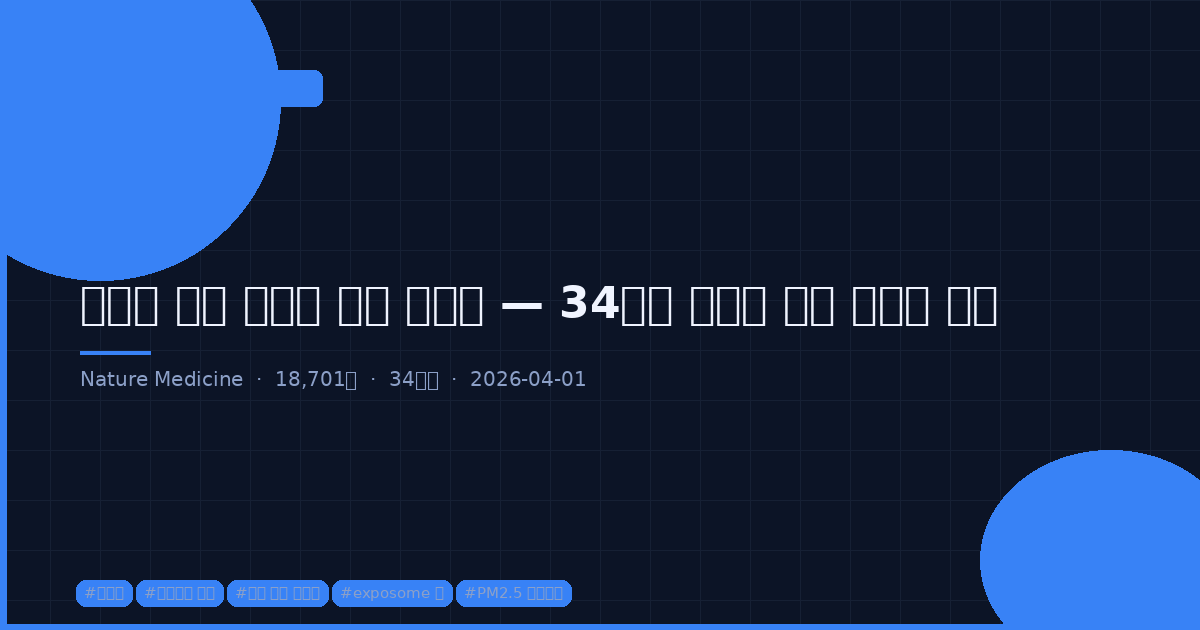
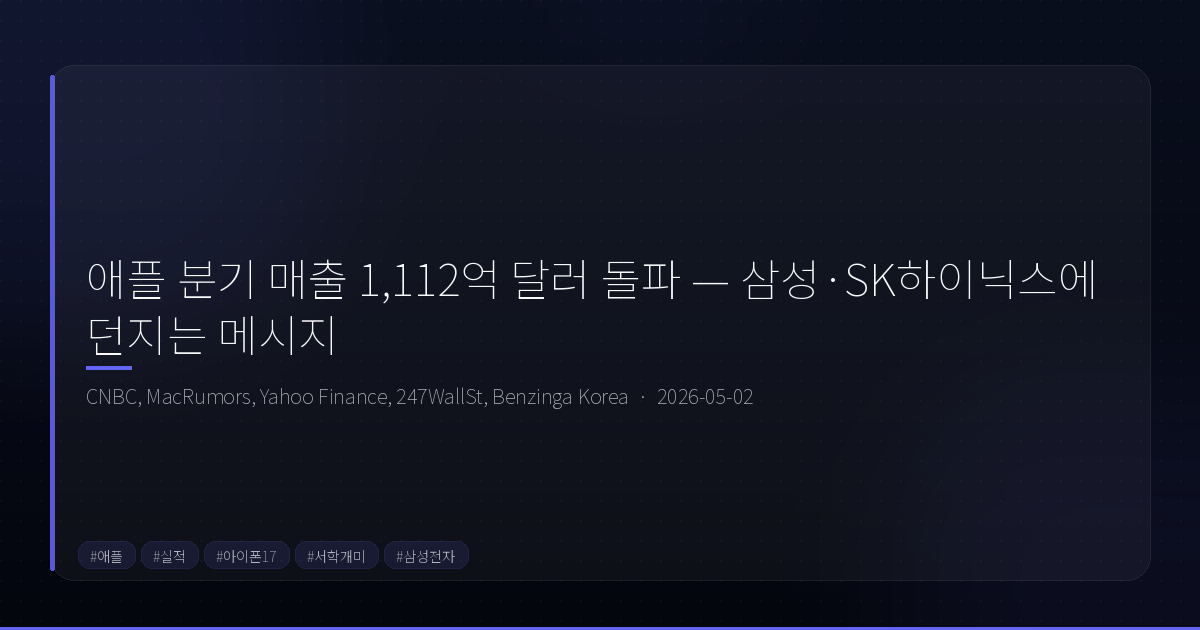
Post: Apple's $111B Quarter Hides a Supply Chain Story Wall Street Is Missing

Changed region(s): [[0.0, 0.0, 1.0, 1.0], [0.555, 0.6032, 0.6167, 0.6333]]

diff --git a/_posts/2026-05-02-apple-111b-quarter-supply-chain-story.md b/_posts/2026-05-02-apple-111b-quarter-supply-chain-story.md
@@ -1,0 +1,103 @@
+---
+title: "Apple's $111B Quarter Hides a Supply Chain Story Wall Street Is Missing"
+date: "2026-05-02"
+description: "Apple beat Q2 2026 estimates with $111.2B revenue, but the real trade is in the Samsung and SK Hynix memory squeeze that is quietly reshaping iPhone economics."
+tags: ["Apple earnings", "AAPL", "iPhone 17", "Samsung", "SK Hynix", "Nasdaq ATH", "US stocks"]
+image: "https://raw.githubusercontent.com/jeonghun-project/global-tech-blog/main/assets/images/header.png"
+author: "Global Tech Blog"
+---
+
+## TL;DR
+
+- **The Beat**: Apple Q2 2026 — $111.2B revenue (+17% YoY), EPS $2.01 vs $1.93 estimate. Stock +5% on May 2, Nasdaq/S&P500 to all-time highs.
+- **The Debate**: China +28% to $20.49B is either genuine demand recovery or tariff front-loading. The June quarter will settle it.
+- **The Hidden Trade**: Samsung supplies 60-70% of iPhone 17 DRAM. SK Hynix raised prices 100% QoQ. Apple accepted. The memory squeeze is good for Korean chipmakers, bad for Apple margins.
+
+---
+
+## $111.2B, 17% Growth, and a 5% Gap-Up — What Just Happened
+
+Apple reported its fiscal Q2 2026 results (January–March quarter) after the bell on April 30. The numbers were unambiguous: revenue of $111.2 billion, up 17% year-over-year, against consensus of $109.66 billion. EPS came in at $2.01, beating estimates by roughly 4%. Gross margin expanded to 49.3%, up from 48.2% the prior period.
+
+Tim Cook described iPhone 17 demand as "extraordinary" and declared the lineup "the most popular in our history." The market agreed: AAPL gapped up more than 5% on May 2, pulling the Nasdaq and S&P 500 to simultaneous record closes — their best April since 2020 extended into early May.
+
+Wall Street followed with a round of target upgrades: Goldman Sachs to $340, BofA to $330, TD Cowen to $335, Morgan Stanley to $330. Consensus among 27 analysts sits at $299.17 with a Buy rating.
+
+---
+
+## Key Numbers and What Changed
+
+Three segments drove the beat:
+
+**iPhone: $56.99 billion**
+Second consecutive quarter of >20% year-over-year growth. Cook explicitly stated the company exceeded guidance "despite supply constraints," flagging a memory shortage that is simultaneously lifting and pressuring the business.
+
+**Services: $30.97 billion (all-time record)**
+Beat the $30.37B estimate. Apple's services gross margin runs near 75%, compared to ~38% on the product side. Every dollar of Services growth has roughly twice the profitability impact of a dollar of hardware revenue. The structural shift is advancing faster than the market had priced in one year ago.
+
+**Greater China: $20.49 billion (+28% YoY)**
+Beat the $18.9B estimate by 8.4%. This is the most contested number in the report. More on this below.
+
+Forward guidance: Apple projected the June quarter at 14–17% revenue growth, against a Street expectation of ~10%. That is either a genuine acceleration signal or an aggressive setup that will be scrutinized.
+
+---
+
+## China's 28% Surge Is Real — or It Isn't
+
+The China number is where conviction diverges.
+
+**The Bull Case**
+Apple Intelligence localization for Mandarin has been rolling out since late 2025. Combined with a Chinese government consumer subsidy program that explicitly includes smartphones, genuine iPhone 17 demand in China may have structurally recovered. BofA's team noted "record upgrade rates" in Greater China, suggesting actual replacement cycle activity rather than speculative front-loading.
+
+**The Bear Case**
+With US-China tariff tensions elevated throughout late 2025, Chinese consumers and channel partners had clear incentives to pull forward purchases. If the $20.49B figure contains 3–4 quarters of front-loaded demand, the June quarter could revert sharply toward the year-ago $16B baseline.
+
+**My read**: Cook's forward guidance of 14–17% growth is incompatible with a front-loading scenario that has been fully reversed. Management would not guide that aggressively if internal data showed a demand cliff. I lean toward genuine recovery with some pull-forward component. The June print will be the decisive data point. Risk is asymmetric to the downside on China — upside is already in the price.
+
+---
+
+## The Trade Wall Street Is Not Talking About Enough
+
+Apple's iPhone 17 success is creating a highly specific beneficiary set: Samsung Electronics and SK Hynix.
+
+**Why Samsung became Apple's dominant DRAM supplier**
+
+The AI capex cycle — Microsoft projecting $190B in 2026 capital spending, industry-wide AI infrastructure spend approaching $700B — has aggressively redirected SK Hynix and Micron capacity toward high-bandwidth memory (HBM) for GPU applications. The side effect is a structural shortage of LPDDR5X, the mobile DRAM used in iPhones.
+
+Samsung, which has not redirected the same proportion of capacity to HBM, stepped into the vacuum. According to TrendForce, Samsung now supplies 60–70% of iPhone 17 LPDDR5X, up from roughly one-third historically.
+
+**SK Hynix doubled its price, Apple accepted**
+
+SK Hynix proposed a ~100% quarter-on-quarter increase in mobile DRAM prices. Apple — with no viable alternative at its required quality threshold and volume scale — accepted the terms. The cost of a 12GB LPDDR5X module has gone from approximately $30 to $70 in under a year. Cook himself warned: "We expect memory costs to have an increasing impact on the business" going into the next quarter.
+
+**The implication for Apple margins is bearish; for Korean chipmakers, it is bullish**
+
+Apple's 49.3% gross margin held up this quarter, but the company explicitly guided that memory cost pressure will intensify. Samsung and SK Hynix are collecting that margin expansion in reverse: higher prices, confirmed demand, and a captive buyer with no pricing power.
+
+---
+
+## My Verdict and Positioning
+
+**On AAPL (Short Term: Overweight, Medium Term: Neutral/Cautious)**
+
+The earnings beat and analyst upgrades support the near-term momentum. The 5% gap-up is rational given the magnitude of the beat. However, three medium-term risks limit further upside:
+
+1. **Memory cost escalation**: A 100% QoQ price hike from suppliers, guided to increase, creates clear margin headwind by Q3 FY2026.
+2. **China sustainability**: At a $20.49B run rate, any reversion toward $16–17B would represent a $3–4B quarterly miss versus current expectations — a 2–3% top-line hit.
+3. **Valuation**: With the stock at ~28x forward earnings post-gap, the multiple already reflects the guidance beat. Upside catalysts are narrowing.
+
+I would not chase the gap-up. For existing holders, the risk/reward for the June quarter is balanced. Trim into strength if China exposure is a concern.
+
+**On Samsung Electronics / SK Hynix (Overweight)**
+
+This is the cleaner trade. The structural demand from Apple is confirmed and contractual. The pricing power they are extracting from Apple is extraordinary by any historical standard — and Apple is paying because it has no choice. The HBM/LPDDR bifurcation in the memory market creates a durable pricing floor for mobile DRAM that has not existed before.
+
+Samsung additionally benefits from supply chain diversification as Apple reduces Micron exposure. SK Hynix layers AI HBM demand (NVIDIA supply partner) on top of the Apple pricing win. Both names offer better risk-adjusted upside relative to AAPL at current valuations.
+
+**On Macro**
+
+The Fed held at 3.5–3.75% on April 30 with four dissenting votes, signaling internal division on the path forward. June cut probability sits at approximately 5%. The elevated rate environment creates a valuation ceiling for long-duration tech assets, but Big Tech earnings have been strong enough to override the discount rate headwind this quarter. Watch for any shift in Fed rhetoric — a hawkish surprise remains the primary macro risk to this positioning.
+
+---
+
+> **Disclaimer**: This article is for informational purposes only and does not constitute investment advice or a solicitation to buy or sell any securities. All investments involve risk, including the possible loss of principal. Past performance is not indicative of future results.
